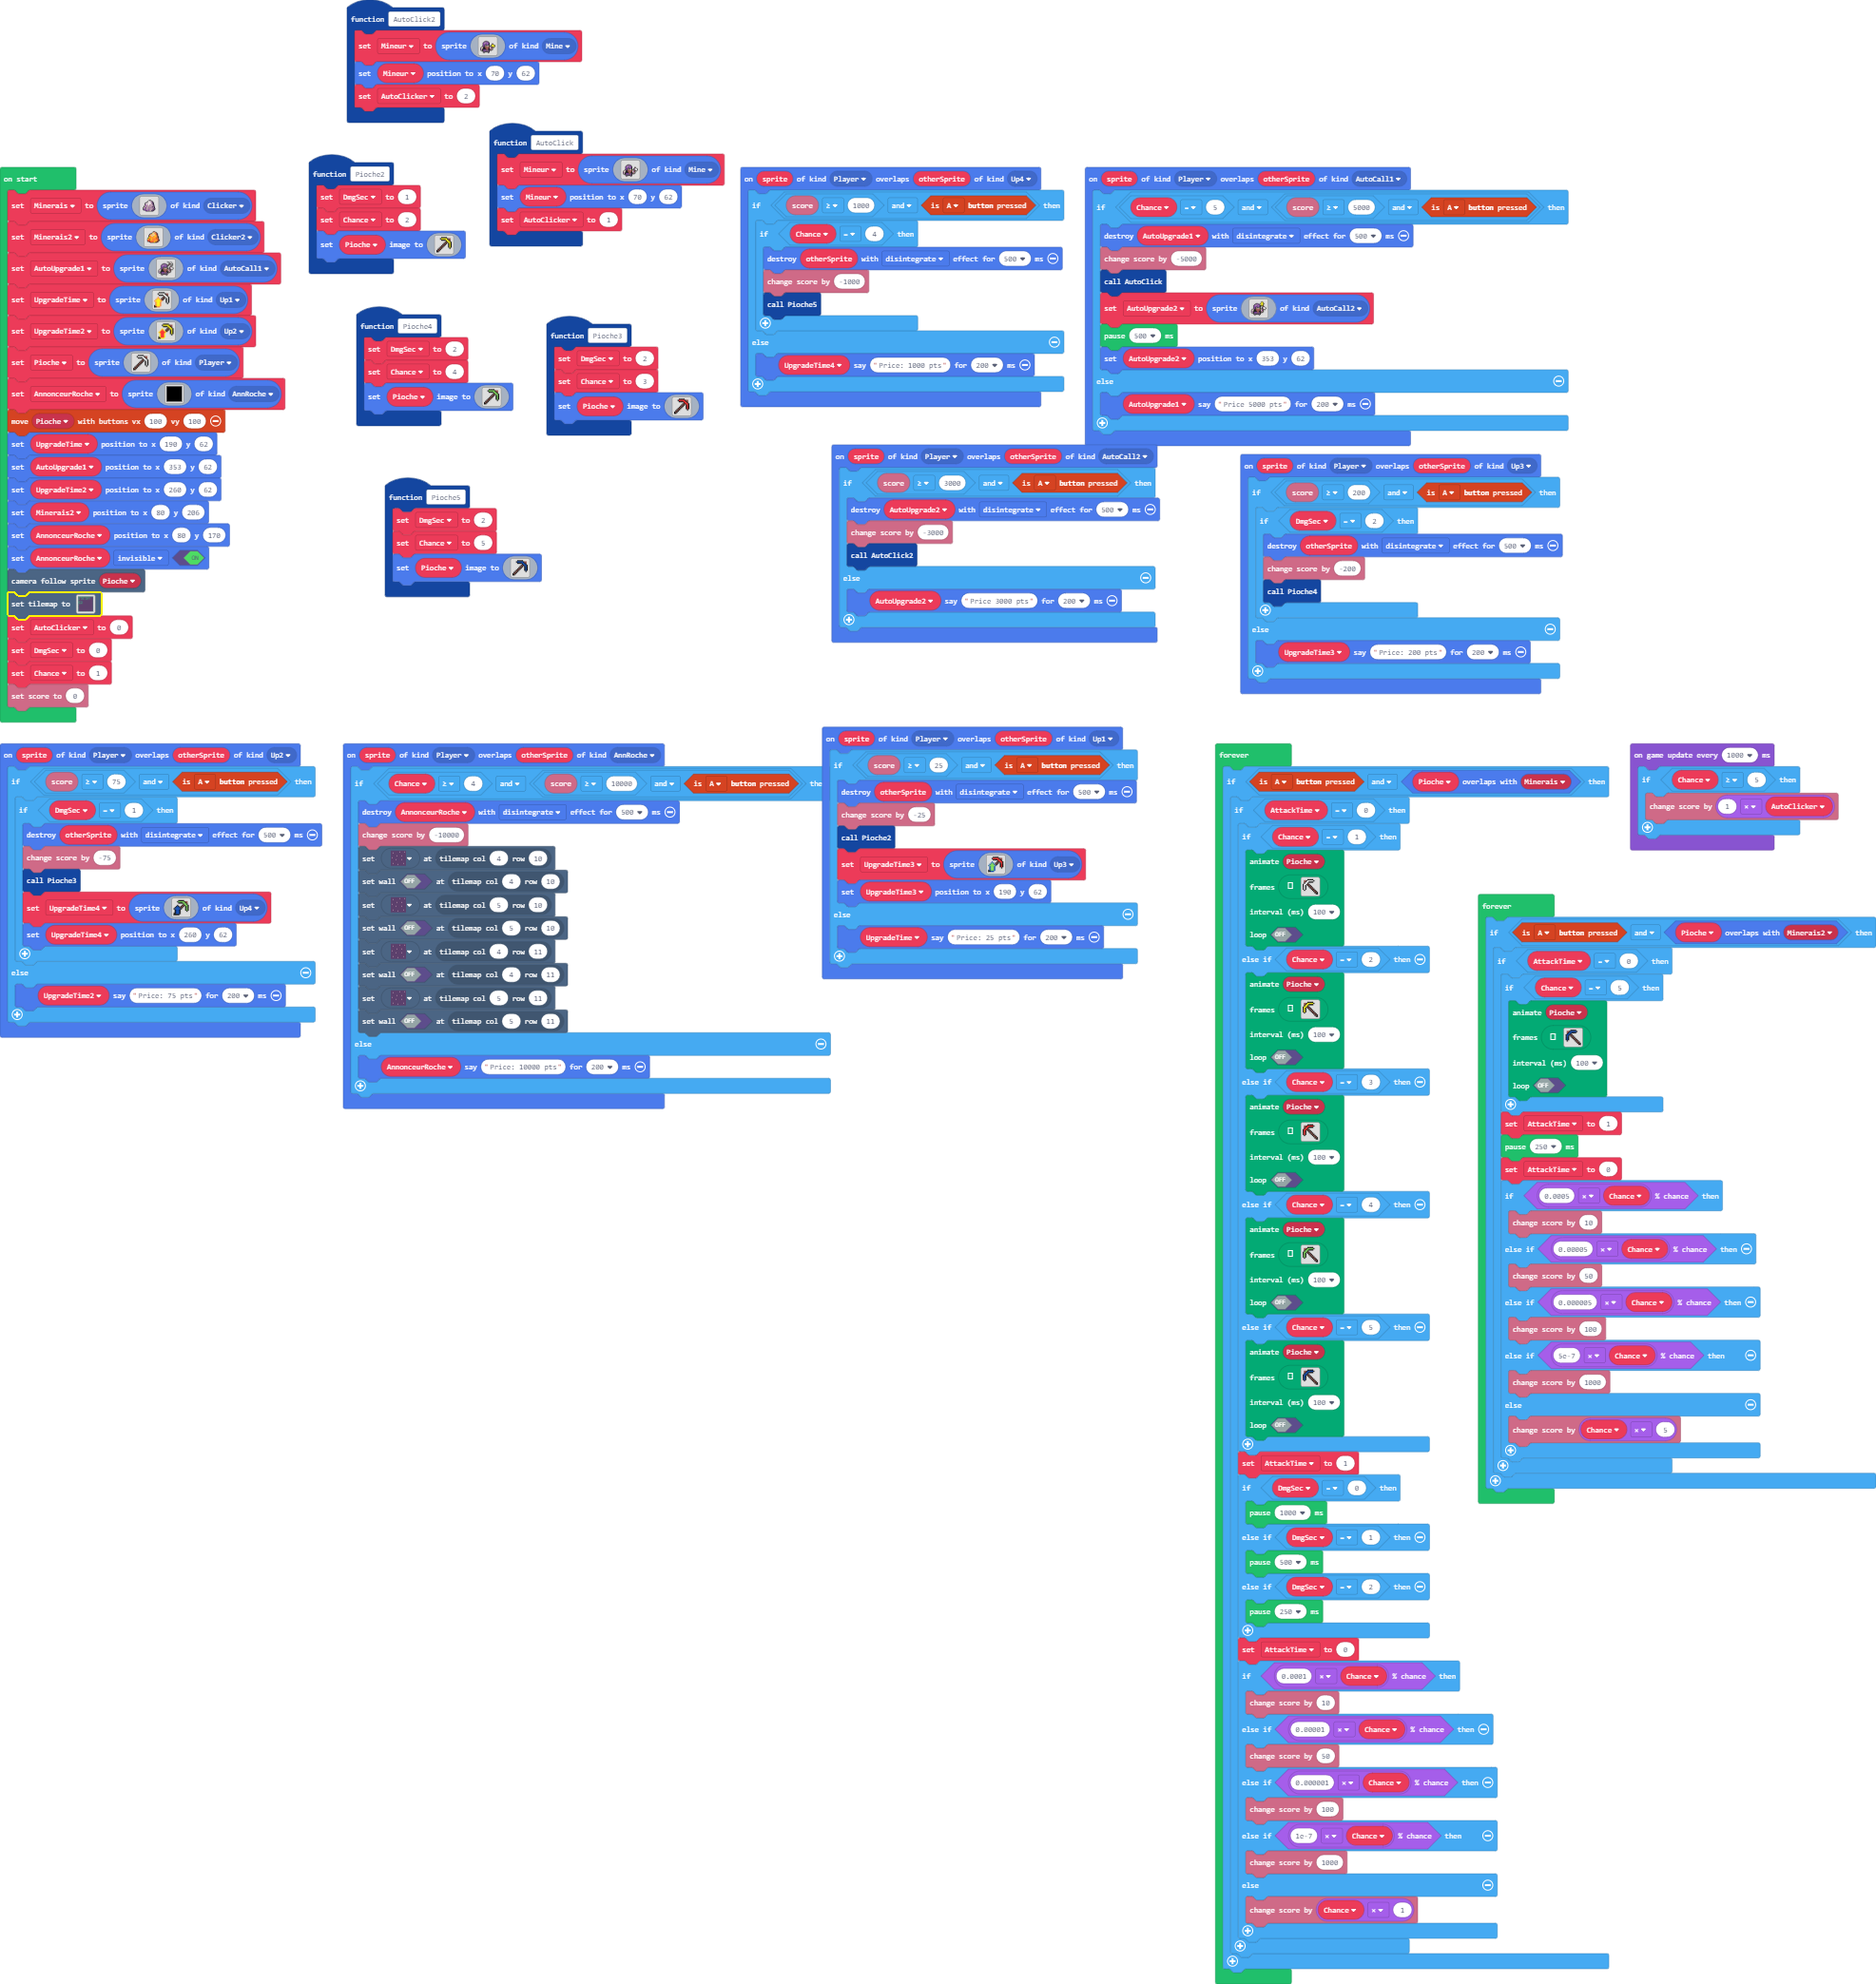
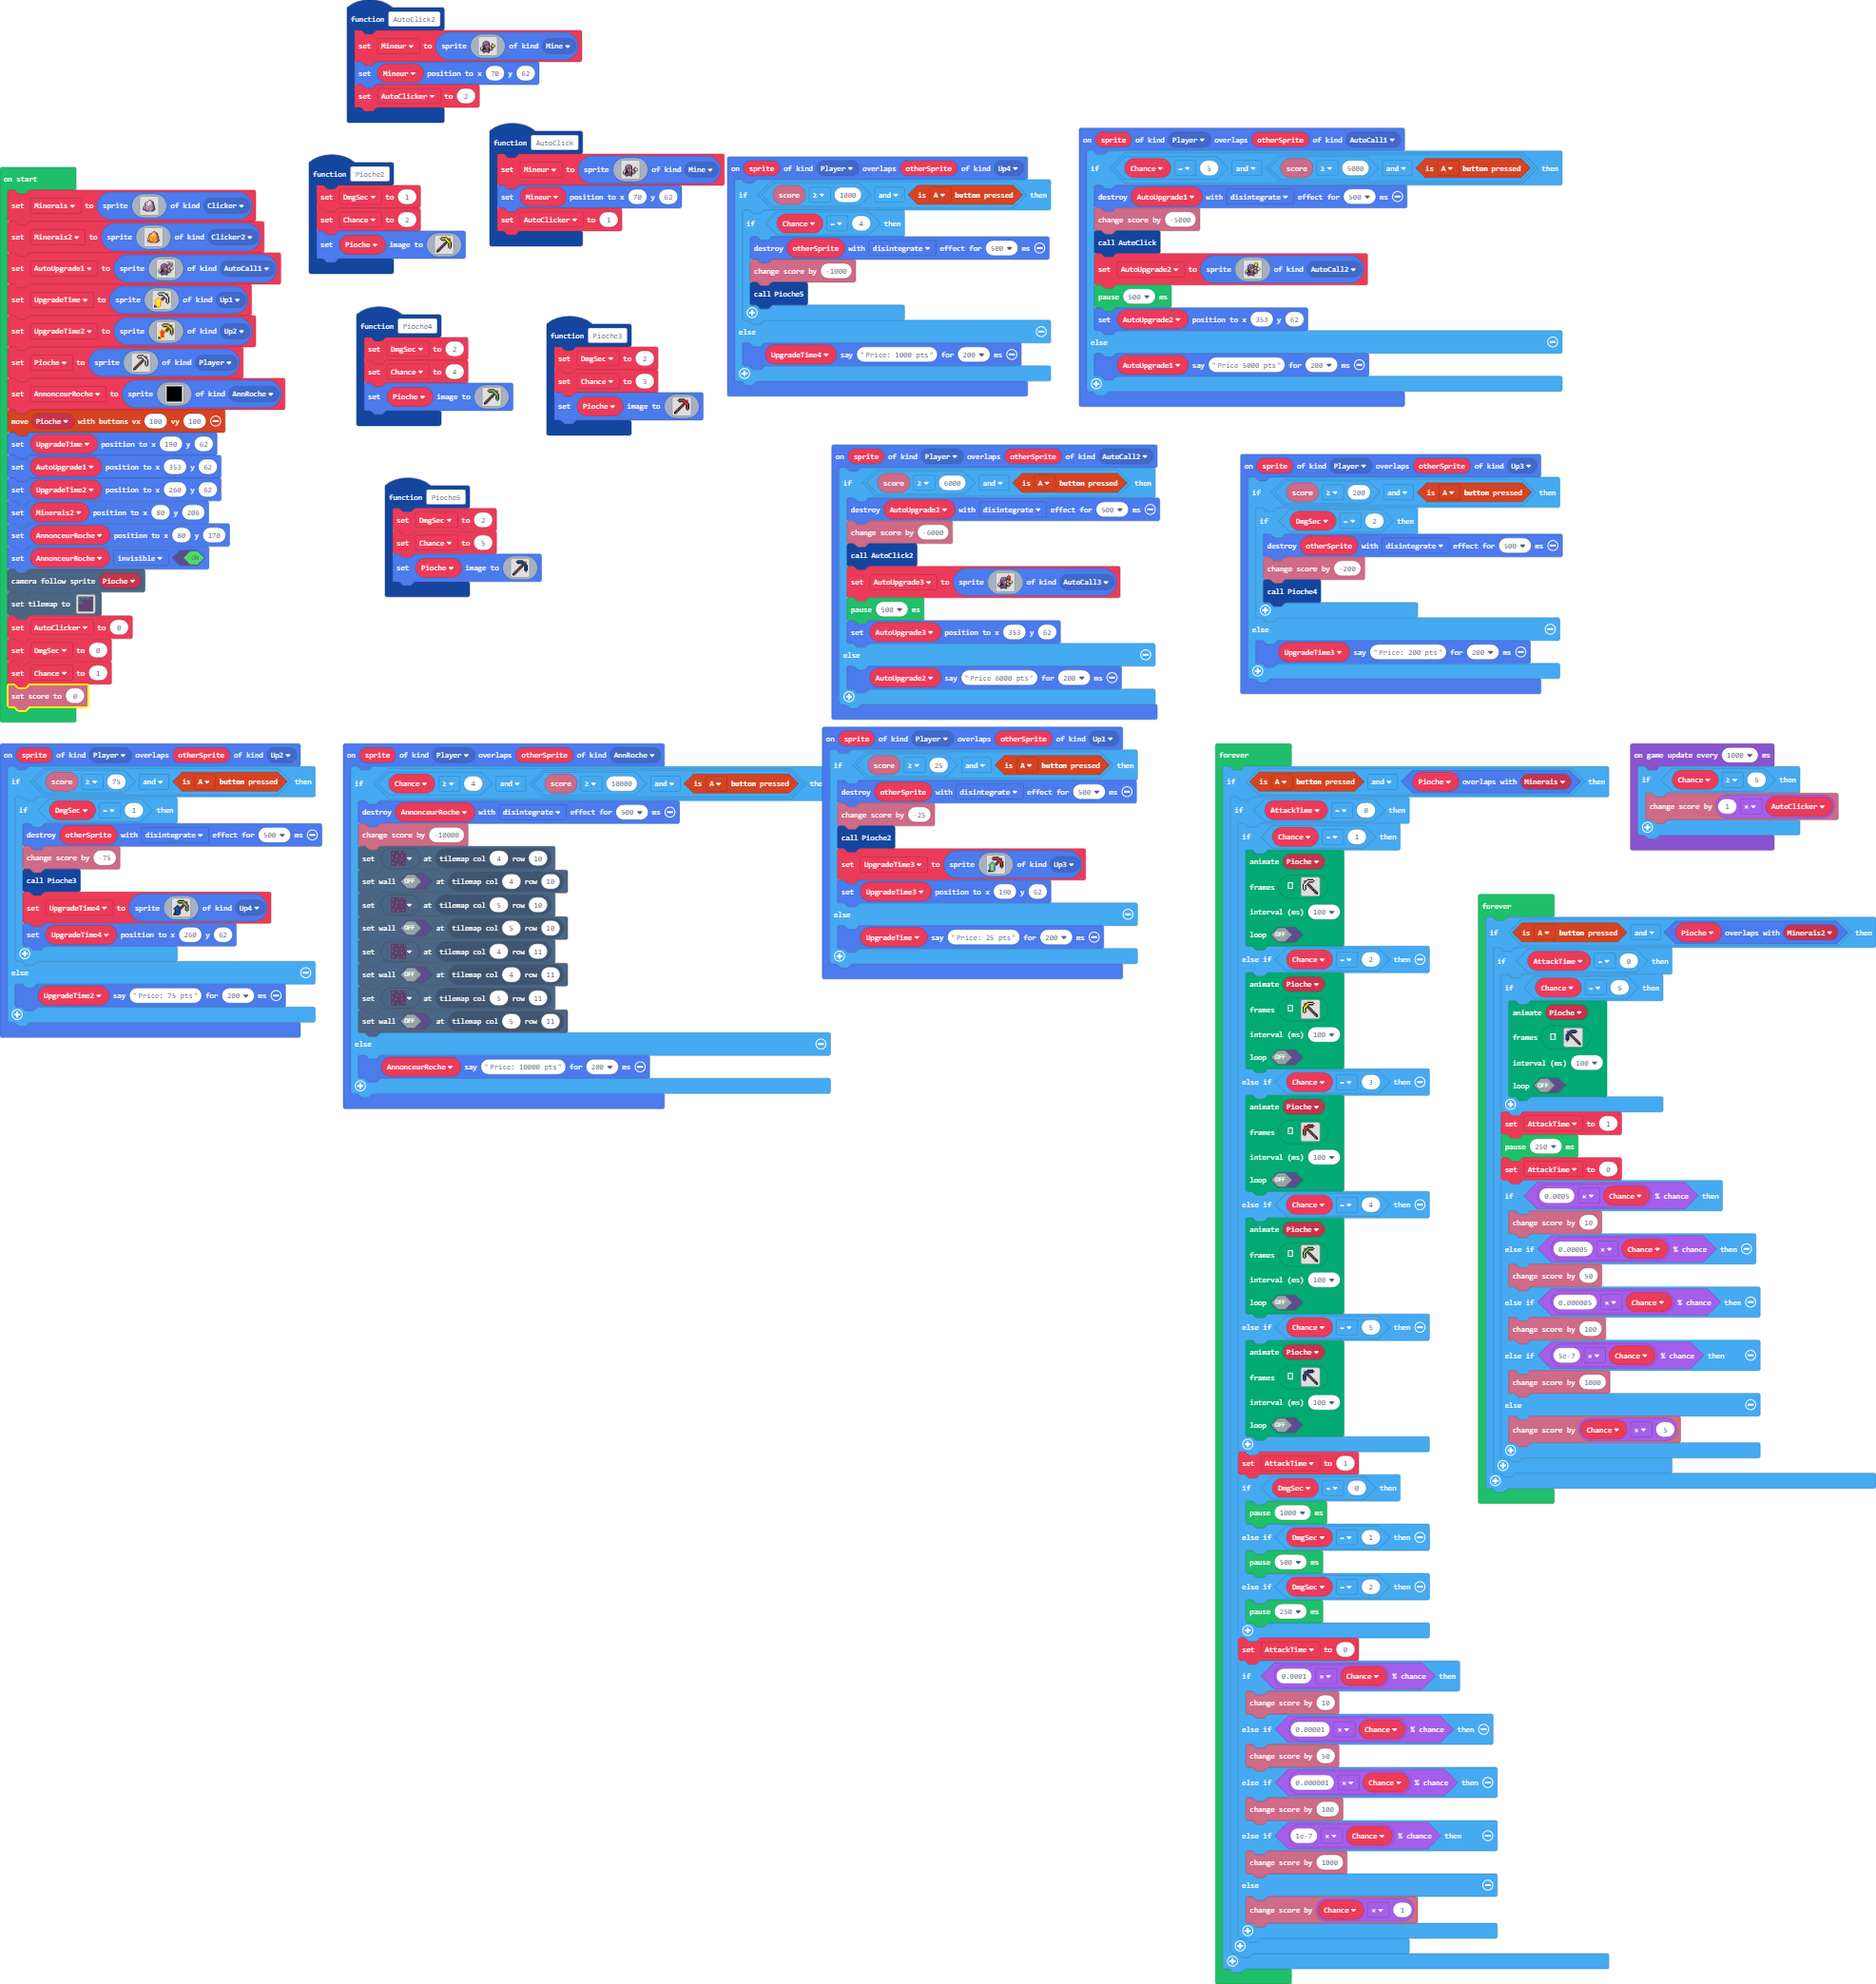
Update main.blocks, main.ts

Changed region(s): [[0.371, 0.0623, 0.8348, 0.2492], [0.4328, 0.2803, 0.6183, 0.3737]]

diff --git a/main.ts b/main.ts
@@ -9,6 +9,7 @@ namespace SpriteKind {
     export const Mine = SpriteKind.create()
     export const AutoCall1 = SpriteKind.create()
     export const AutoCall2 = SpriteKind.create()
+    export const AutoCall3 = SpriteKind.create()
 }
 namespace myTiles {
     //% blockIdentity=images._tile
@@ -125,12 +126,38 @@ f d d f f a a a a c e e c a f f e f f . . . . .
     }
 })
 sprites.onOverlap(SpriteKind.Player, SpriteKind.AutoCall2, function (sprite, otherSprite) {
-    if (info.score() >= 3000 && controller.A.isPressed()) {
+    if (info.score() >= 6000 && controller.A.isPressed()) {
         AutoUpgrade2.destroy(effects.disintegrate, 500)
-        info.changeScoreBy(-3000)
+        info.changeScoreBy(-6000)
         AutoClick2()
+        AutoUpgrade3 = sprites.create(img`
+. . . . . . . . . . . . . . . . . f . . . . . . 
+. . . . . . . . . . . . . . . . f 2 f . . . . . 
+. . . . . . . . . . . . . . . f 2 2 2 f . . . . 
+. . . . . . . . f f f . . . f 2 2 2 2 2 f . . . 
+. . . . . . f f c b a f f . . f 2 2 2 f . . . . 
+. . . . . f a b b c b a c f . f 2 2 2 f . . . . 
+. . . . f a b b b a c b a c f f 2 2 2 f . . . . 
+. . . . f a b b a a c b a a f f f f f f . . . . 
+. . . . f a a c c c c a c c f . . . f e f . . . 
+. . . . f a a f f f c a f f f . . f 4 5 5 f f . 
+. . . . f c c f 1 7 f f 1 7 f . . f 4 4 5 5 5 f 
+. . . f c a a f e e d d d e f f . f 4 4 5 5 5 f 
+. . f d f f f e e e e e e e e d f . f e f 5 f . 
+. f d d d f f f e e e e e e f d d f e f . f . . 
+f d d d f f f f e e e e e e f d d a e f . . . . 
+f d d d f f f f f e e e e f f d c e d f . . . . 
+f a c f f f f f f f e e f f f f c d d f . . . . 
+f d d f f a a a a c e e c a f f e f f . . . . . 
+. f f f f c c c c c c c c c f . f . . . . . . . 
+. . . . f c c c c c c c c c f . . . . . . . . . 
+. . . . f c c f f f f f c c f . . . . . . . . . 
+. . . . . f f . . . . . f f . . . . . . . . . . 
+`, SpriteKind.AutoCall3)
+        pause(500)
+        AutoUpgrade3.setPosition(353, 62)
     } else {
-        AutoUpgrade2.say("Price 3000 pts", 200)
+        AutoUpgrade2.say("Price 6000 pts", 200)
     }
 })
 function Pioche3 () {
@@ -220,9 +247,9 @@ function AutoClick2 () {
 . . . . f a b b b a c b a c f . . . . . . . . . 
 . . . . f a b b a a c b a a f . . . . f . . . . 
 . . . . f a a c c c c a c c f . . . f e f . . . 
-. . . . f a a f f f c a f f f . . f 5 5 5 f f . 
-. . . . f c c f 1 7 f f 1 7 f . . f 5 5 5 5 5 f 
-. . . f c a a f e e d d d e f f . f 5 5 5 5 5 f 
+. . . . f a a f f f c a f f f . . f 4 5 5 f f . 
+. . . . f c c f 1 7 f f 1 7 f . . f 4 4 5 5 5 f 
+. . . f c a a f e e d d d e f f . f 4 4 5 5 5 f 
 . . f d f f f e e e e e e e e d f . f e f 5 f . 
 . f d d d f f f e e e e e e f d d f e f . f . . 
 f d d d f f f f e e e e e e f d d a e f . . . . 
@@ -299,6 +326,7 @@ f f . . . . . . . . . . .
 }
 let AttackTime = 0
 let UpgradeTime3: Sprite = null
+let AutoUpgrade3: Sprite = null
 let AutoUpgrade2: Sprite = null
 let UpgradeTime4: Sprite = null
 let Mineur: Sprite = null
